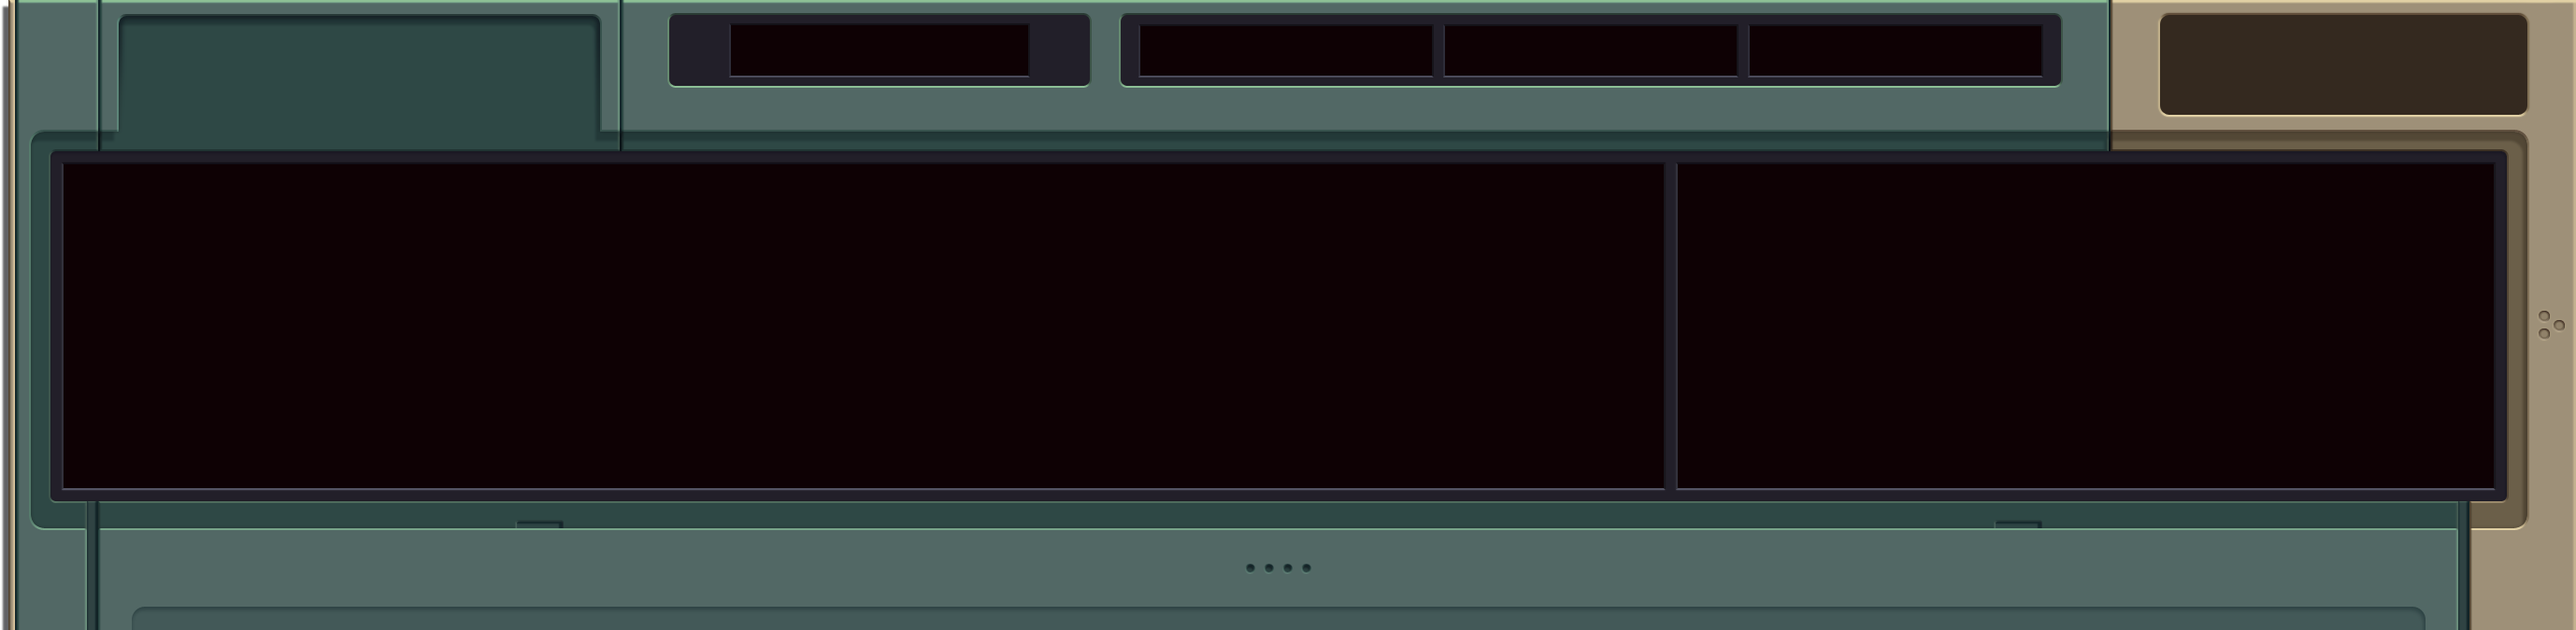
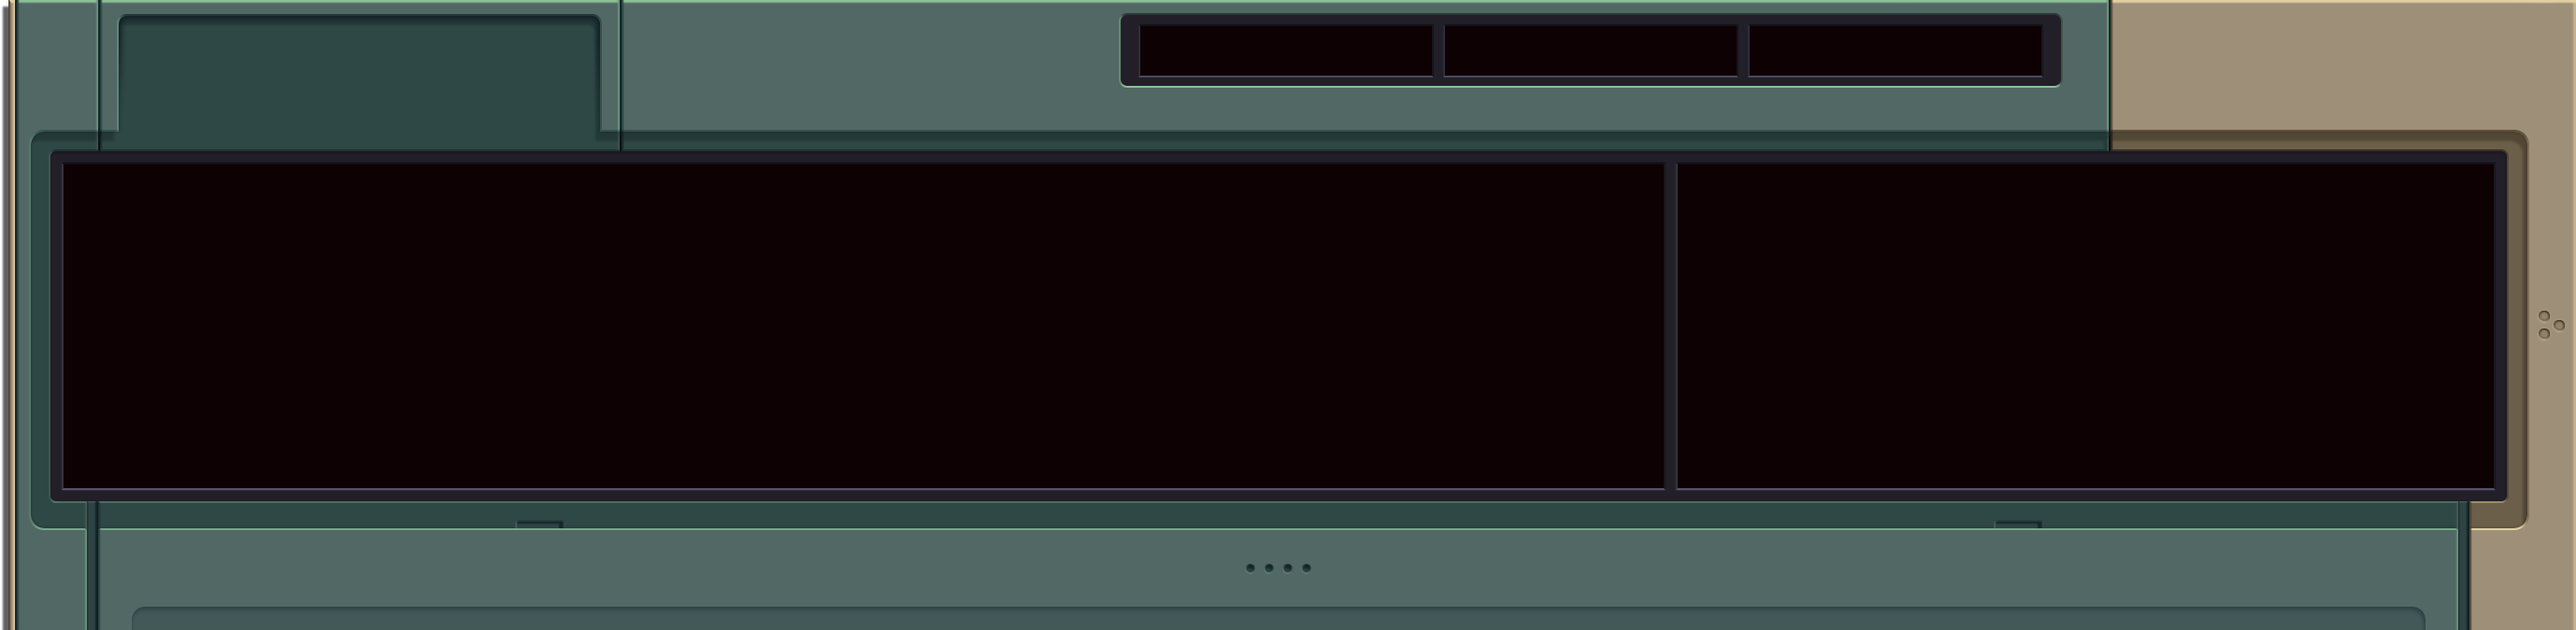
modification lié a l'UI

Changed region(s): [[0.8113, 0.0, 0.9985, 0.1867], [0.2496, 0.0, 0.4369, 0.1556]]

diff --git a/UI/gameplay/Game.java b/UI/gameplay/Game.java
@@ -4,6 +4,8 @@ import Compilation.Compilator;
 import Compilation.DoubleCompilator;
 import Data.LevelData;
 import UI.Loader;
+import UI.Menu;
+import UI.SceneSwitch;
 import javafx.scene.Scene;
 import javafx.scene.control.Label;
 import javafx.scene.layout.AnchorPane;
@@ -17,14 +19,16 @@ public class Game extends Scene {
     private DoubleCompilator doubleCompilator; 
     private Terminal terminal;
     private Terminal helpTerminal;
+    private Menu mainMenu;
     private ExaInfo exaInfo = new ExaInfo();
     private Loader loadMenu = new Loader("file:resources/editor/bg.png", "file:resources/editor/bg_panel.png"); 
 
     private Compilator compilator;
     private AnchorPane root; 
 
-    public Game(int level) {
+    public Game(int level, Menu MainMenu) {
         super(new AnchorPane(),800,600); 
+        this.mainMenu = MainMenu;
         this.level = level;
         this.root = (AnchorPane) this.getRoot();
         drawLevel();
@@ -68,6 +72,11 @@ public class Game extends Scene {
                 }
                 callCompiler(codeArea1, codeArea2, 1);
             }
+        });
+
+        setButtons.getBtnExit().setOnAction(e ->{
+            new SceneSwitch(mainMenu.getStage(), mainMenu); 
+            mainMenu.getStage().setFullScreen(true);
         });
 
     }

diff --git a/Data/LevelData.java b/Data/LevelData.java
@@ -21,7 +21,7 @@ public class LevelData {
     }
 
     private void handleFile() {
-        File file = new File("Data/savedLevel" + level + "code.octo");
+        File file = new File("Data/Saved/savedLevel" + level + "code.octo");
         try {
             if (!file.exists()) {
                 file.createNewFile();
@@ -49,7 +49,7 @@ public class LevelData {
     }
 
     public void writeToFile(String[] text) {
-        try (FileWriter writer = new FileWriter("Data/savedLevel" + level + "code.octo")) {
+        try (FileWriter writer = new FileWriter("Data/Saved/savedLevel" + level + "code.octo")) {
             for (String string : text) {
                 writer.write(string);
                 writer.write("\n");

diff --git a/UI/ShowsLevels.java b/UI/ShowsLevels.java
@@ -27,7 +27,7 @@ public class ShowsLevels extends Scene{
         //Level 1 Button
         level1Button = new Button("Level 1"); 
         level1Button.setOnAction(event -> {
-            Scene gamScene = new Game(1); 
+            Scene gamScene = new Game(1, mainMenu); 
             new SceneSwitch(mainMenu.getStage(), gamScene); 
             mainMenu.getStage().setFullScreen(true);
         });
